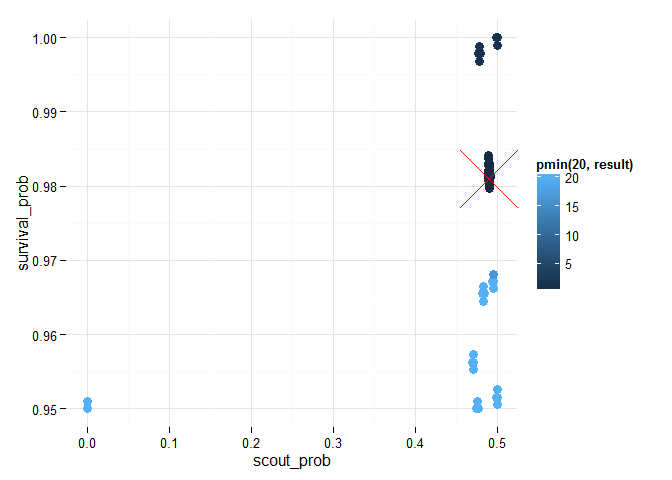
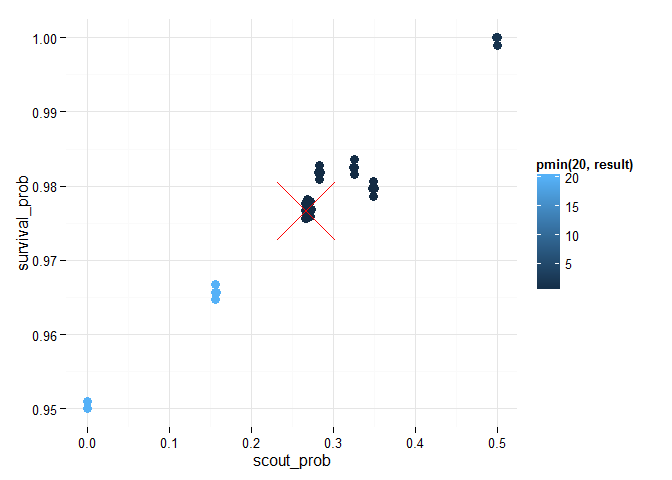
nl_show_patches
nl_show_patches, L-BFGS-B method in readme

diff --git a/readme.md b/readme.md
@@ -4,13 +4,13 @@
 [![](https://travis-ci.org/bergant/nlexperiment.svg)](https://travis-ci.org/bergant/nlexperiment)
 
 ----
-
+<a name="nlexperiment"></a>
 ![nlexperiment](img/logo.png)
 
 ####Define and run NetLogo experiments in R
 
-The goal of **nlexperiment** is to 
-explore NetLogo models in R as simple as possible 
+The goal of **nlexperiment** is to make 
+exploring NetLogo models with R as simple as possible 
 while keeping advanced functionalities available to
 advanced users.
 It uses [RNetLogo](https://cran.r-project.org/web/packages/RNetLogo/)
@@ -266,6 +266,36 @@ _Note:_
 * _Use `param_space_id` and/or `run_id` columns to subset individual run or parameter combination_
 
 
+## Reading patches
+Getting patches information is analogous to reading agents' data from NetLogo model:
+
+
+```r
+experiment2 <- nl_experiment( 
+  model_file = file.path(nl_netlogo_path(), 
+                         "models/Sample Models/Biology/Fur.nlogo"), 
+  iterations = 20,                                     
+  
+  param_values = list(
+    ratio = c(0.3, 0.35, 0.4, 0.45)
+  ),
+  patches_after = list(
+    patches = patch_set(
+      vars = c("pxcor", "pycor", "pcolor"),
+      patches = "patches"
+    )
+  ),
+  random_seed = 2
+)
+
+result2 <- nl_run(experiment2)
+
+nl_show_patches(result2, x_param = "ratio") +
+  ggplot2::scale_fill_manual(values = c("black","white"))
+```
+
+![](img/README-p6E2-1.png) 
+
 
 
 
@@ -369,8 +399,7 @@ There are 5 parameters in the NetLogo Fur model:
 * `inner-radius-x`
 
 But considering constraints and model symmetry
-we can reduce it only to ratio and ellipse aspect ratio. It is sufficient to
-create parameter sets based on combinations of
+we can reduce the parameters to:
 
 * `ratio` (the inhibitor concentration parameter)
 * `radius_diff` (the difference between x and y radius) and
@@ -406,8 +435,13 @@ experiment <- nl_experiment(
     outer_radius_x = "outer-radius-x",
     inner_radius_y = "inner-radius-y",
     outer_radius_y = "outer-radius-y"
+  ),
+  patches_after = list(
+    patches = patch_set(
+      vars = c("pxcor", "pycor", "pcolor"),
+      patches = "patches"
+    )
   ),  
-  export_view = TRUE,
   random_seed = 3
 )
 ```
@@ -421,17 +455,16 @@ _Note:_
 Run experiment
 
 ```r
-result <- nl_run(experiment, parallel = TRUE, max_cores = 3)   
+result <- nl_run(experiment, parallel = TRUE, max_cores = 3)    
 ```
 
 Show resulting fur patterns:
 
 ```r
 library(ggplot2)
-nl_show_views_grid(
-  result, x_param = "ratio", y_param = "radius_diff", img_gap = 0.01) + 
-  ylab("radius_y - radius_x") +
-  ggtitle("Fur patterns")
+nl_show_patches(result, x_param = "ratio", y_param = "radius_diff") + 
+  scale_fill_manual(values = c("black","white")) +
+  labs(y=expression(radius[y] - radius[x]), title = "Fur patterns (gap = 3)")
 ```
 
 ![](img/README-p7ShowViews-1.png) 
@@ -707,14 +740,14 @@ are selected as optimization runs. In this scenario the `nl_eval_run` function s
 
 There are two differences:
 
-* `nl_run_eval` accepts specific parameter set. 
-* It runs on existing NetLogo instance - user have to take care to initialize NetLogo and load the model before optimization begins and 
-close NetLogo when it ends (with functions `nl_eval_init` and `nl_eval_close`).
+* `nl_run_eval` accepts a parameter set and returns a value 
+* It requires NetLogo instance - user have to take care to initialize NetLogo and load the model before optimization begins and 
+close NetLogo when it is no longer needed (see functions `nl_eval_init` and `nl_eval_close`).
 
 Use `nl_eval_run` _parallel_ option when optimizing stochastic models
 with more than a few repetitions needed to evaluate one parameter set. 
 
-There are many many R packages for solving optimization problems 
+There are many R packages for solving optimization problems 
 (see [CRAN Task View](https://cran.r-project.org/web/views/Optimization.html)).
 This example use **L-BFGS-B method** with standard `stats::optim` function.
 See also Thiele, Kurth & Grimm (2014) chapter 
@@ -723,7 +756,7 @@ See also Thiele, Kurth & Grimm (2014) chapter
 
 ```r
 # parameter range from experiment
-param_range <- nl_get_param_range(experiment)  
+param_range <- nl_get_param_range(experiment)   
  
 # initialize evaluation
 cl <- nl_eval_init(experiment, parallel = TRUE)
@@ -741,7 +774,7 @@ o_result <- optim(
   method = "L-BFGS-B",
   lower = param_range$lower, upper = param_range$upper, 
   control = list(maxit = 200, trace = 1))
-#> final  value 0.261145 
+#> final  value 0.023308 
 #> converged
 
 nl_eval_close(parallel = TRUE, cl)
@@ -752,14 +785,14 @@ nl_eval_close(parallel = TRUE, cl)
 #final result:
 o_result
 #> $par
-#> [1] 0.4901088 0.9809555
+#> [1] 0.266740 0.976674
 #> 
 #> $value
-#> [1] 0.2611453
+#> [1] 0.02330759
 #> 
 #> $counts
 #> function gradient 
-#>       17       17 
+#>       22       22 
 #> 
 #> $convergence
 #> [1] 0

diff --git a/readme_parts/readme10.md b/readme_parts/readme10.md
@@ -22,14 +22,14 @@ are selected as optimization runs. In this scenario the `nl_eval_run` function s
 
 There are two differences:
 
-* `nl_run_eval` accepts specific parameter set. 
-* It runs on existing NetLogo instance - user have to take care to initialize NetLogo and load the model before optimization begins and 
-close NetLogo when it ends (with functions `nl_eval_init` and `nl_eval_close`).
+* `nl_run_eval` accepts a parameter set and returns a value 
+* It requires NetLogo instance - user have to take care to initialize NetLogo and load the model before optimization begins and 
+close NetLogo when it is no longer needed (see functions `nl_eval_init` and `nl_eval_close`).
 
 Use `nl_eval_run` _parallel_ option when optimizing stochastic models
 with more than a few repetitions needed to evaluate one parameter set. 
 
-There are many many R packages for solving optimization problems 
+There are many R packages for solving optimization problems 
 (see [CRAN Task View](https://cran.r-project.org/web/views/Optimization.html)).
 This example use **L-BFGS-B method** with standard `stats::optim` function.
 See also Thiele, Kurth & Grimm (2014) chapter 
@@ -38,7 +38,7 @@ See also Thiele, Kurth & Grimm (2014) chapter
 
 ```r
 # parameter range from experiment
-param_range <- nl_get_param_range(experiment)  
+param_range <- nl_get_param_range(experiment)   
  
 # initialize evaluation
 cl <- nl_eval_init(experiment, parallel = TRUE)
@@ -56,7 +56,8 @@ o_result <- optim(
   method = "L-BFGS-B",
   lower = param_range$lower, upper = param_range$upper, 
   control = list(maxit = 200, trace = 1))
-#> final  value 0.005728 
+#> iter   10 value 0.037885
+#> final  value 0.037885 
 #> converged
 
 nl_eval_close(parallel = TRUE, cl)
@@ -67,14 +68,14 @@ nl_eval_close(parallel = TRUE, cl)
 #final result:
 o_result
 #> $par
-#> [1] 0.3456760 0.9775987
+#> [1] 0.4308075 0.9763381
 #> 
 #> $value
-#> [1] 0.005728102
+#> [1] 0.03788475
 #> 
 #> $counts
 #> function gradient 
-#>       25       25 
+#>       41       41 
 #> 
 #> $convergence
 #> [1] 0
@@ -114,20 +115,4 @@ ggplot(dat, aes(x = scout_prob, y = survival_prob, color = pmin(20,result))) +
 ```
 
 ![](img/README-unnamed-chunk-5-1.png) 
-
-```r
-
-dat1 <- dat[ order(dat$result), ][1:100, ]
-
-ggplot(dat1, aes(x = scout_prob, y = survival_prob, color = result)) +
-  #  geom_line(color = "gray", size = 1, ) +
-  geom_point(size = 3) +
-  geom_point(
-    color = "red", 
-    data = data.frame(scout_prob = o_result$par[1], survival_prob = o_result$par[2]),
-    size = 20, shape = 4) +
-  theme_minimal()
-```
-
-![](img/README-unnamed-chunk-5-2.png) 
 

diff --git a/readme_parts/readme7.md b/readme_parts/readme7.md
@@ -18,8 +18,7 @@ There are 5 parameters in the NetLogo Fur model:
 * `inner-radius-x`
 
 But considering constraints and model symmetry
-we can reduce it only to ratio and ellipse aspect ratio. It is sufficient to
-create parameter sets based on combinations of
+we can reduce the parameters to:
 
 * `ratio` (the inhibitor concentration parameter)
 * `radius_diff` (the difference between x and y radius) and
@@ -55,8 +54,13 @@ experiment <- nl_experiment(
     outer_radius_x = "outer-radius-x",
     inner_radius_y = "inner-radius-y",
     outer_radius_y = "outer-radius-y"
+  ),
+  patches_after = list(
+    patches = patch_set(
+      vars = c("pxcor", "pycor", "pcolor"),
+      patches = "patches"
+    )
   ),  
-  export_view = TRUE,
   random_seed = 3
 )
 ```
@@ -70,17 +74,16 @@ _Note:_
 Run experiment
 
 ```r
-result <- nl_run(experiment, parallel = TRUE, max_cores = 3)   
+result <- nl_run(experiment, parallel = TRUE, max_cores = 3)    
 ```
 
 Show resulting fur patterns:
 
 ```r
 library(ggplot2)
-nl_show_views_grid(
-  result, x_param = "ratio", y_param = "radius_diff", img_gap = 0.01) + 
-  ylab("radius_y - radius_x") +
-  ggtitle("Fur patterns")
+nl_show_patches(result, x_param = "ratio", y_param = "radius_diff") + 
+  scale_fill_manual(values = c("black","white")) +
+  labs(y=expression(radius[y] - radius[x]), title = "Fur patterns (gap = 3)")
 ```
 
 ![](img/README-p7ShowViews-1.png) 

diff --git a/readme_parts/readme6.md b/readme_parts/readme6.md
@@ -38,7 +38,7 @@ _Note:_
 Run experiment
 
 ```r
-result <- nl_run(experiment) 
+result <- nl_run(experiment)
 #> Warning: Parameter sets not defined. Using default parameters
 ```
 
@@ -71,6 +71,36 @@ _Note:_
 * _Data frame `result$agents_after$edges` includes variables from all simulation runs._
 * _Use `param_space_id` and/or `run_id` columns to subset individual run or parameter combination_
 
+
+## Reading patches
+Getting patches information is analogous to reading agents' data from NetLogo model:
+
+
+```r
+experiment2 <- nl_experiment( 
+  model_file = file.path(nl_netlogo_path(), 
+                         "models/Sample Models/Biology/Fur.nlogo"), 
+  iterations = 20,                                     
+  
+  param_values = list(
+    ratio = c(0.3, 0.35, 0.4, 0.45)
+  ),
+  patches_after = list(
+    patches = patch_set(
+      vars = c("pxcor", "pycor", "pcolor"),
+      patches = "patches"
+    )
+  ),
+  random_seed = 2
+)
+
+result2 <- nl_run(experiment2)
+
+nl_show_patches(result2, x_param = "ratio") +
+  ggplot2::scale_fill_manual(values = c("black","white"))
+```
+
+![](img/README-p6E2-1.png) 
 
 
 

diff --git a/readme_parts/readme5.md b/readme_parts/readme5.md
@@ -36,13 +36,10 @@ experiment <- nl_experiment(
 
 _Note:_
 
-* _When parameters are defined as a list of value vecors, parameter space is
+* _When parameters are defined as a list of value vectors, parameter space is
   constructed as combination of all possible parameter sets
-* _It is not required to include all parameters in mapping. Variable `population` 
-is used as is._
-* _NetLogo identifiers may include some ASCII characters `(?=*!<>:#+/%$^'&-)`
-that makes the R part of data manipulation rather uncomfortable._
 * _Element `mapping` maps `difussion_rate` and `evaporation_rate` names to NetLogo variables `diffusion-rate` and `evaporation-rate`._
+* _It is not required to include all parameters in mapping. Variable `population` is used as is._
 
 
 Run experiment
